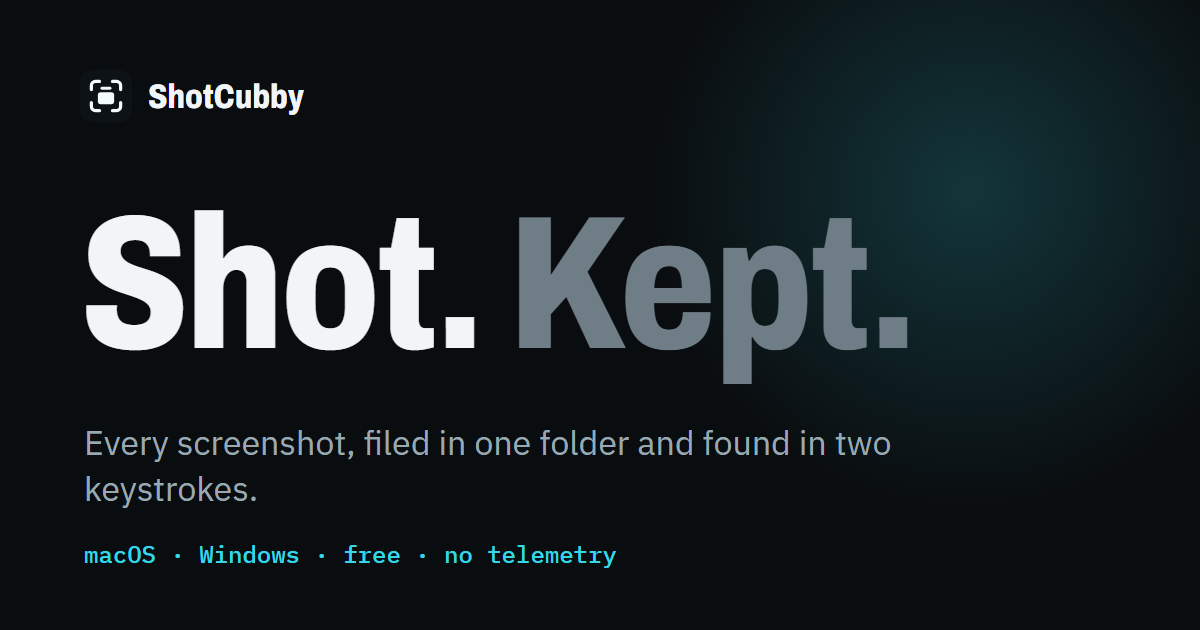
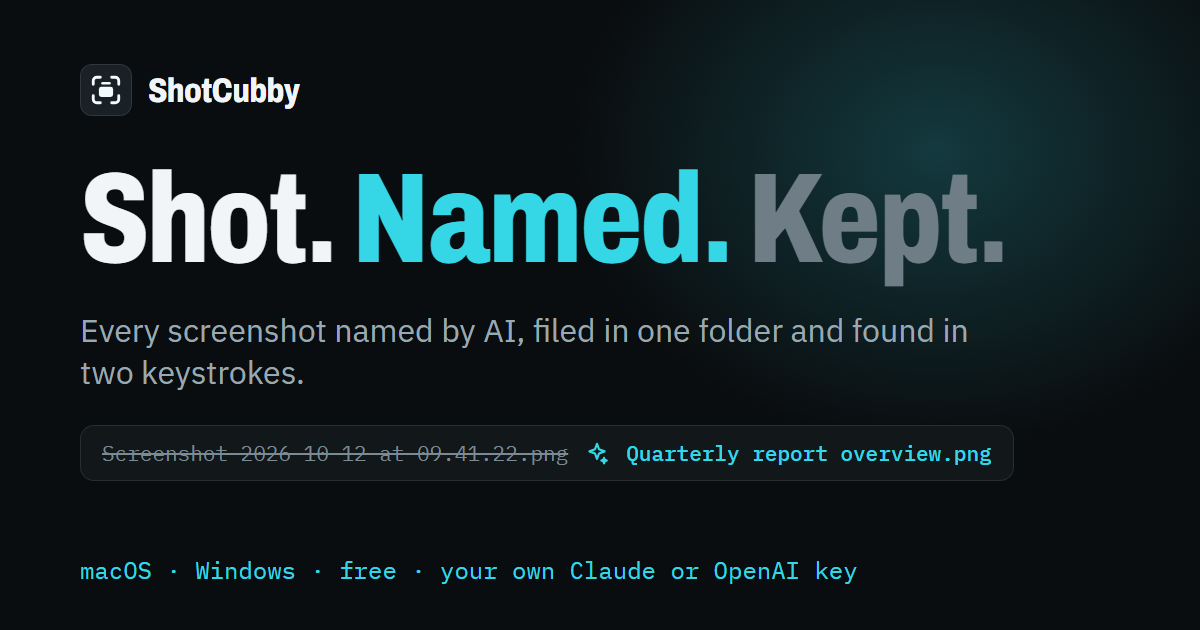
Landing: AI naming in the demo and a new Open Graph image
The interactive demo gets a step where AI renames the new capture (the menu
row shows "AI naming…" then types the new name, which the search then finds).
The Open Graph image says "Shot. Named. Kept." with the rename shown.

diff --git a/demo.html b/demo.html
@@ -169,7 +169,7 @@ body.embed{background:transparent;overflow:hidden}
   <h1>See it work in fifteen seconds.</h1>
   <p class="sub">Preview of the scripted demo (not on the landing yet). Real UI, fake screenshots.</p>
   <div class="bar">
-    <div class="steps" id="steps"><span>1 · Capture</span><span>2 · Search</span><span>3 · Copy &amp; paste</span></div>
+    <div class="steps" id="steps"><span>1 · Capture</span><span>2 · AI names it</span><span>3 · Search</span><span>4 · Copy &amp; paste</span></div>
     <div class="os" id="os"><button data-os="mac">macOS</button><button data-os="win">Windows</button></div>
   </div>
 
@@ -232,6 +232,9 @@ body.embed{background:transparent;overflow:hidden}
   var isMac = !/Win/i.test(navigator.userAgent);
   var token = 0, inView = true, idle = true;
 
+  // The newest capture arrives with the system name, then AI naming renames it.
+  var RAW_NAME = 'Screenshot 2026-10-12 at 09.41.22.png', AI_NAME = 'Quarterly report overview.png';
+
   var ITEMS = [
     { n: 'Screenshot 2026-10-12 at 09.41.22.png', w: 'just now', k: 'page', fresh: true },
     { n: 'Screenshot 2026-10-12 at 09.12.05.png', w: '29 min ago', k: 'chart' },
@@ -285,6 +288,17 @@ body.embed{background:transparent;overflow:hidden}
       return '<div class="pr' + (r.fresh ? ' new' : '') + '"><div class="th">' + mock(r.k) + '</div><div><div class="nm">' + r.n + '</div><div class="wh">' + r.w + '</div></div></div>';
     }).join('');
   }
+  // The AI renames the newest row of the menu: "AI naming…", then the new name typed out.
+  async function aiRename(s) {
+    var nm = $('#plist .pr.new .nm'), wh = $('#plist .pr.new .wh');
+    wh.textContent = 'AI naming…'; wh.style.color = '#35D6E6';
+    await s(950);
+    ITEMS[0].n = POP[1].n = AI_NAME;
+    nm.style.color = '#35D6E6';
+    for (var k = 1; k <= AI_NAME.length; k++) { nm.textContent = AI_NAME.slice(0, k); await s(28); }
+    wh.textContent = 'just now'; wh.style.color = ''; nm.style.color = '';
+    await s(650);
+  }
   function cursorJump(x, y) { cursor.style.transition = 'none'; cursorTo(x, y); void cursor.offsetWidth; cursor.style.transition = ''; }
   function cursorTo(x, y) { cursor.style.transform = 'translate(' + x + 'px,' + y + 'px)'; }
 
@@ -319,10 +333,11 @@ body.embed{background:transparent;overflow:hidden}
 
   function setStep(i) {
     document.querySelectorAll('#steps span').forEach(function (s, idx) { s.classList.toggle('on', idx === i); });
-    $('#caption').textContent = ['Take a screenshot the way you always do — ShotCubby files it, and one click on the icon lists them all.', 'Open the search from anywhere with one shortcut.', 'Copy it — the panel closes at once — and paste it where you need it.'][i];
+    $('#caption').textContent = ['Take a screenshot the way you always do — ShotCubby files it, and one click on the icon lists them all.', 'AI reads the new capture and names it, with your own Claude or OpenAI key and your own naming convention.', 'Open the search from anywhere with one shortcut, and find it by its new name.', 'Copy it — the panel closes at once — and paste it where you need it.'][i];
   }
 
-  function reset() {
+  function reset(named) {
+    ITEMS[0].n = POP[1].n = named ? AI_NAME : RAW_NAME;
     zoomOut();
     $('#spot').classList.remove('open'); $('#pop').classList.remove('open'); $('#toast').classList.remove('go');
     renderPop();
@@ -369,18 +384,19 @@ body.embed{background:transparent;overflow:hidden}
     cursorTo(gp.x - 3, gp.y - 2); await s(550);
     clickCursor(); $(g).classList.add('press'); await s(80);
     $(g).classList.remove('press'); $('#pop').classList.add('open'); await s(550);
+    setStep(1); await aiRename(s);
     showKeys(keysFor('esc')); await s(150); await press(100); hideKeys();
     $('#pop').classList.remove('open'); cursor.classList.remove('on'); await s(120);
 
-    // 2 · search
-    setStep(1); renderList(0, true);
+    // 3 · search
+    setStep(2); renderList(0, true);
     showKeys(keysFor('open')); await s(250); await press(150); await s(80); hideKeys();
     $('#spot').classList.add('open'); zoom(panelRect, 1.6); await s(750);
     showKeys(keysFor('down')); await s(150); await press(110); renderList(1, true); await s(350);
     await press(110); renderList(2, true); await s(400); hideKeys();
 
-    // 3 · copy + paste
-    setStep(2); zoom(footRect, 2.2); await s(650);
+    // 4 · copy + paste
+    setStep(3); zoom(footRect, 2.2); await s(650);
     $('#copyHint').classList.add('hot'); showKeys(keysFor('copy')); await s(300); await press(160);
     var sp = $('#spot'); sp.classList.add('instant'); sp.classList.remove('open'); hideKeys();
     requestAnimationFrame(function () { sp.classList.remove('instant'); });
@@ -415,7 +431,7 @@ body.embed{background:transparent;overflow:hidden}
 
   if (window.matchMedia('(prefers-reduced-motion: reduce)').matches) {
     isMac = !/Win/i.test(navigator.userAgent); stage.className = 'stage ' + (isMac ? 'mac' : 'win');
-    reset(); setStep(1); renderList(0, true); $('#spot').classList.add('open');
+    reset(true); setStep(2); renderList(0, true); $('#spot').classList.add('open');
     document.querySelectorAll('#os button').forEach(function (b) { b.addEventListener('click', function () { setOS(b.dataset.os === 'mac'); }); });
   } else {
     new IntersectionObserver(function (e) { inView = e[0].isIntersecting; if (inView && idle) loop(); }, { threshold: 0.25 }).observe(demo);

diff --git a/index.html b/index.html
@@ -138,7 +138,7 @@ a{color:inherit;text-decoration:none}a:hover{color:inherit}
 </div>
 
 <div id="demo" style="width: 100%; max-width: 1000px; margin: 0 auto; padding: 0 0 88px; overflow-anchor: none">
-<iframe id="demo-frame" src="demo.html?embed=1" title="ShotCubby in action: take a screenshot, search it, copy it and paste it" loading="lazy" scrolling="no" style="display: block; width: 100%; height: 760px; border: 0; background: transparent"></iframe>
+<iframe id="demo-frame" src="demo.html?embed=1" title="ShotCubby in action: take a screenshot, watch AI name it, search it, copy it and paste it" loading="lazy" scrolling="no" style="display: block; width: 100%; height: 760px; border: 0; background: transparent"></iframe>
 </div>
 
 <section id="ai" aria-labelledby="ai-title" style="display: flex; flex-direction: column; align-items: center; gap: 32px; padding: 0 0 104px">
